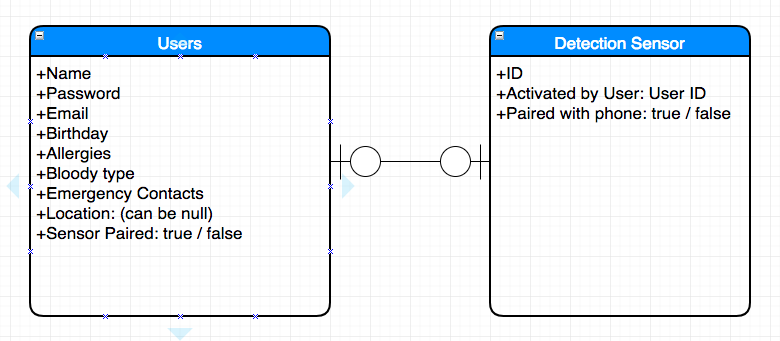
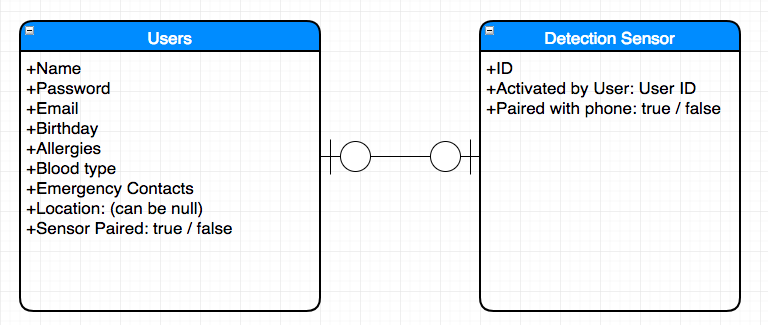
edit README.md

Changed region(s): [[0.0, 0.0615, 0.9688, 1.0]]

diff --git a/src/components/Profile/Profile.js b/src/components/Profile/Profile.js
@@ -6,17 +6,17 @@ import DrawerButton from '../DrawerButton'
 import firebase from '../Firebase/firebase'
 import SmsAndroid from 'react-native-sms-android'
 
-// var userData
+var userData
 
-// firebase.auth().onAuthStateChanged(function (user) {
-//   if (user) {
-//     var uid = firebase.auth().currentUser.uid
-//     var rootRef = firebase.database().ref(`users/${uid}`)
-//     rootRef.once('value').then(function (snapshot) {
-//       userData = snapshot.val()
-//     })
-//   }
-// })
+firebase.auth().onAuthStateChanged(function (user) {
+  if (user) {
+    var uid = firebase.auth().currentUser.uid
+    var rootRef = firebase.database().ref(`users/${uid}`)
+    rootRef.once('value').then(function (snapshot) {
+      userData = snapshot.val()
+    })
+  }
+})
 
 const LATITUDE = 1.3077426
 const LONGITUDE = 103.8318502
@@ -44,6 +44,7 @@ export default class Profile extends Component {
   }
 
   androidMessage (latitude, longitude) {
+    alert('Message can\'t be sent on emulator!')
     if (Platform.OS === 'android') {
       var uid = firebase.auth().currentUser.uid
       var rootRef = firebase.database().ref(`users/${uid}`)
@@ -111,14 +112,14 @@ export default class Profile extends Component {
         <Image source={require('../../images/ambulance.gif')} style={styles.ambulanceLogo} />
 
         <View>
-          {/* <Text style={styles.titleBar}>Profile</Text>
+          <Text style={styles.titleBar}>Profile</Text>
           <Text style={{paddingLeft: 10, backgroundColor: '#EAEAEA'}}>
             {'\n'}Name: {userData.name}{'\n'}
             {'\n'}Blood Type: {userData.bloodType}{'\n'}
             {'\n'}Allergy: {userData.allergy}{'\n'}
             {'\n'}Emergency Contact Name: {userData.emergencyContactName}{'\n'}
             {'\n'}Emergency Contact Number: {userData.emergencyContactNumber}{'\n'}
-          </Text> */}
+          </Text>
           <Text style={styles.titleBar}>Location</Text>
         </View>
         <View style={styles.mapContainer}>

diff --git a/README.md b/README.md
@@ -40,12 +40,12 @@ Deployed onto hockeyapp, link can be shared by invitation
 
 ## ERD
 
-![alt text](./src/images/ERD.png?raw=true 'start')
+<img src="src/images/ERD.png">
 
 
 ## Wireframe
-<img src="src/images/1Home.png" height="400"><img src="src/images/2CreateProfilePage.png" height="400"><img src="src/images/3Sensor.png" height="400">
-<img src="src/images/4NewSession.png" height="400"><img src="src/images/5ImpactDetected.png" height="400"><img src="src/images/6Setting.png" height="400">
+
+<img src="src/images/1Home.png" height="400"><img src="src/images/2CreateProfilePage.png" height="400"><img src="src/images/3Sensor.png" height="400"><img src="src/images/4NewSession.png" height="400"><img src="src/images/5ImpactDetected.png" height="400"><img src="src/images/6Setting.png" height="400">
 
 
 ## User Stories
